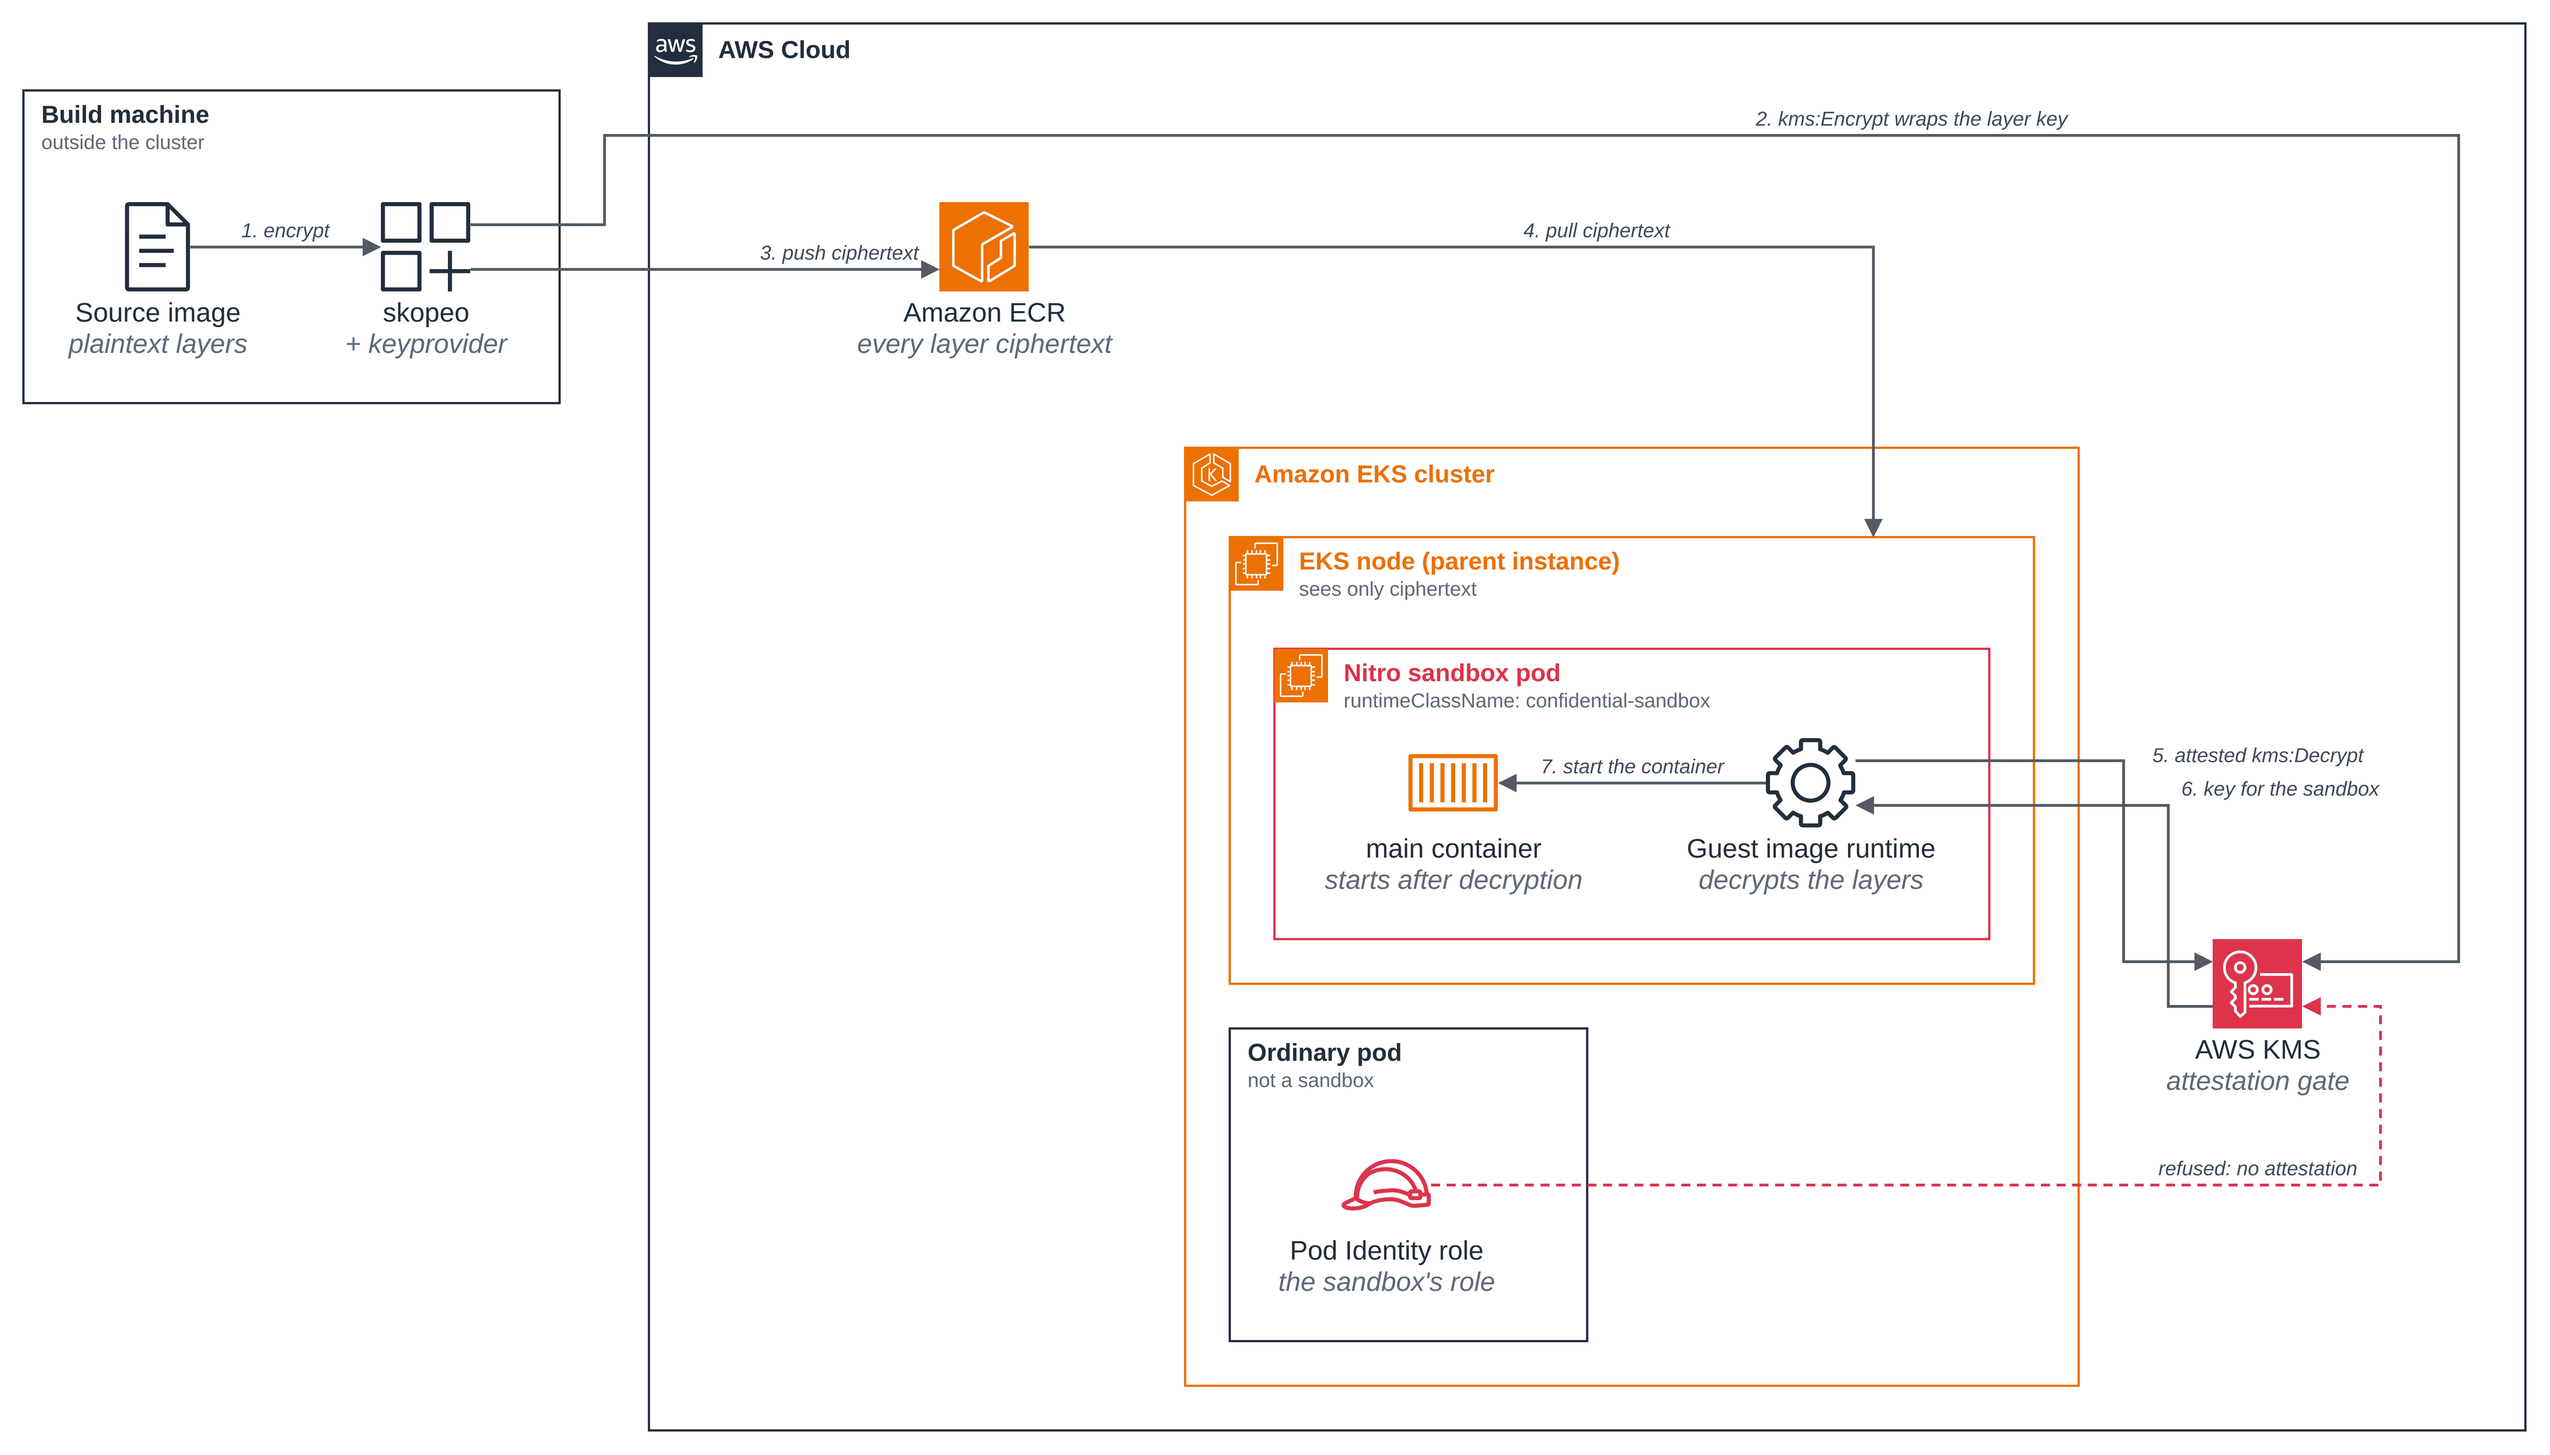
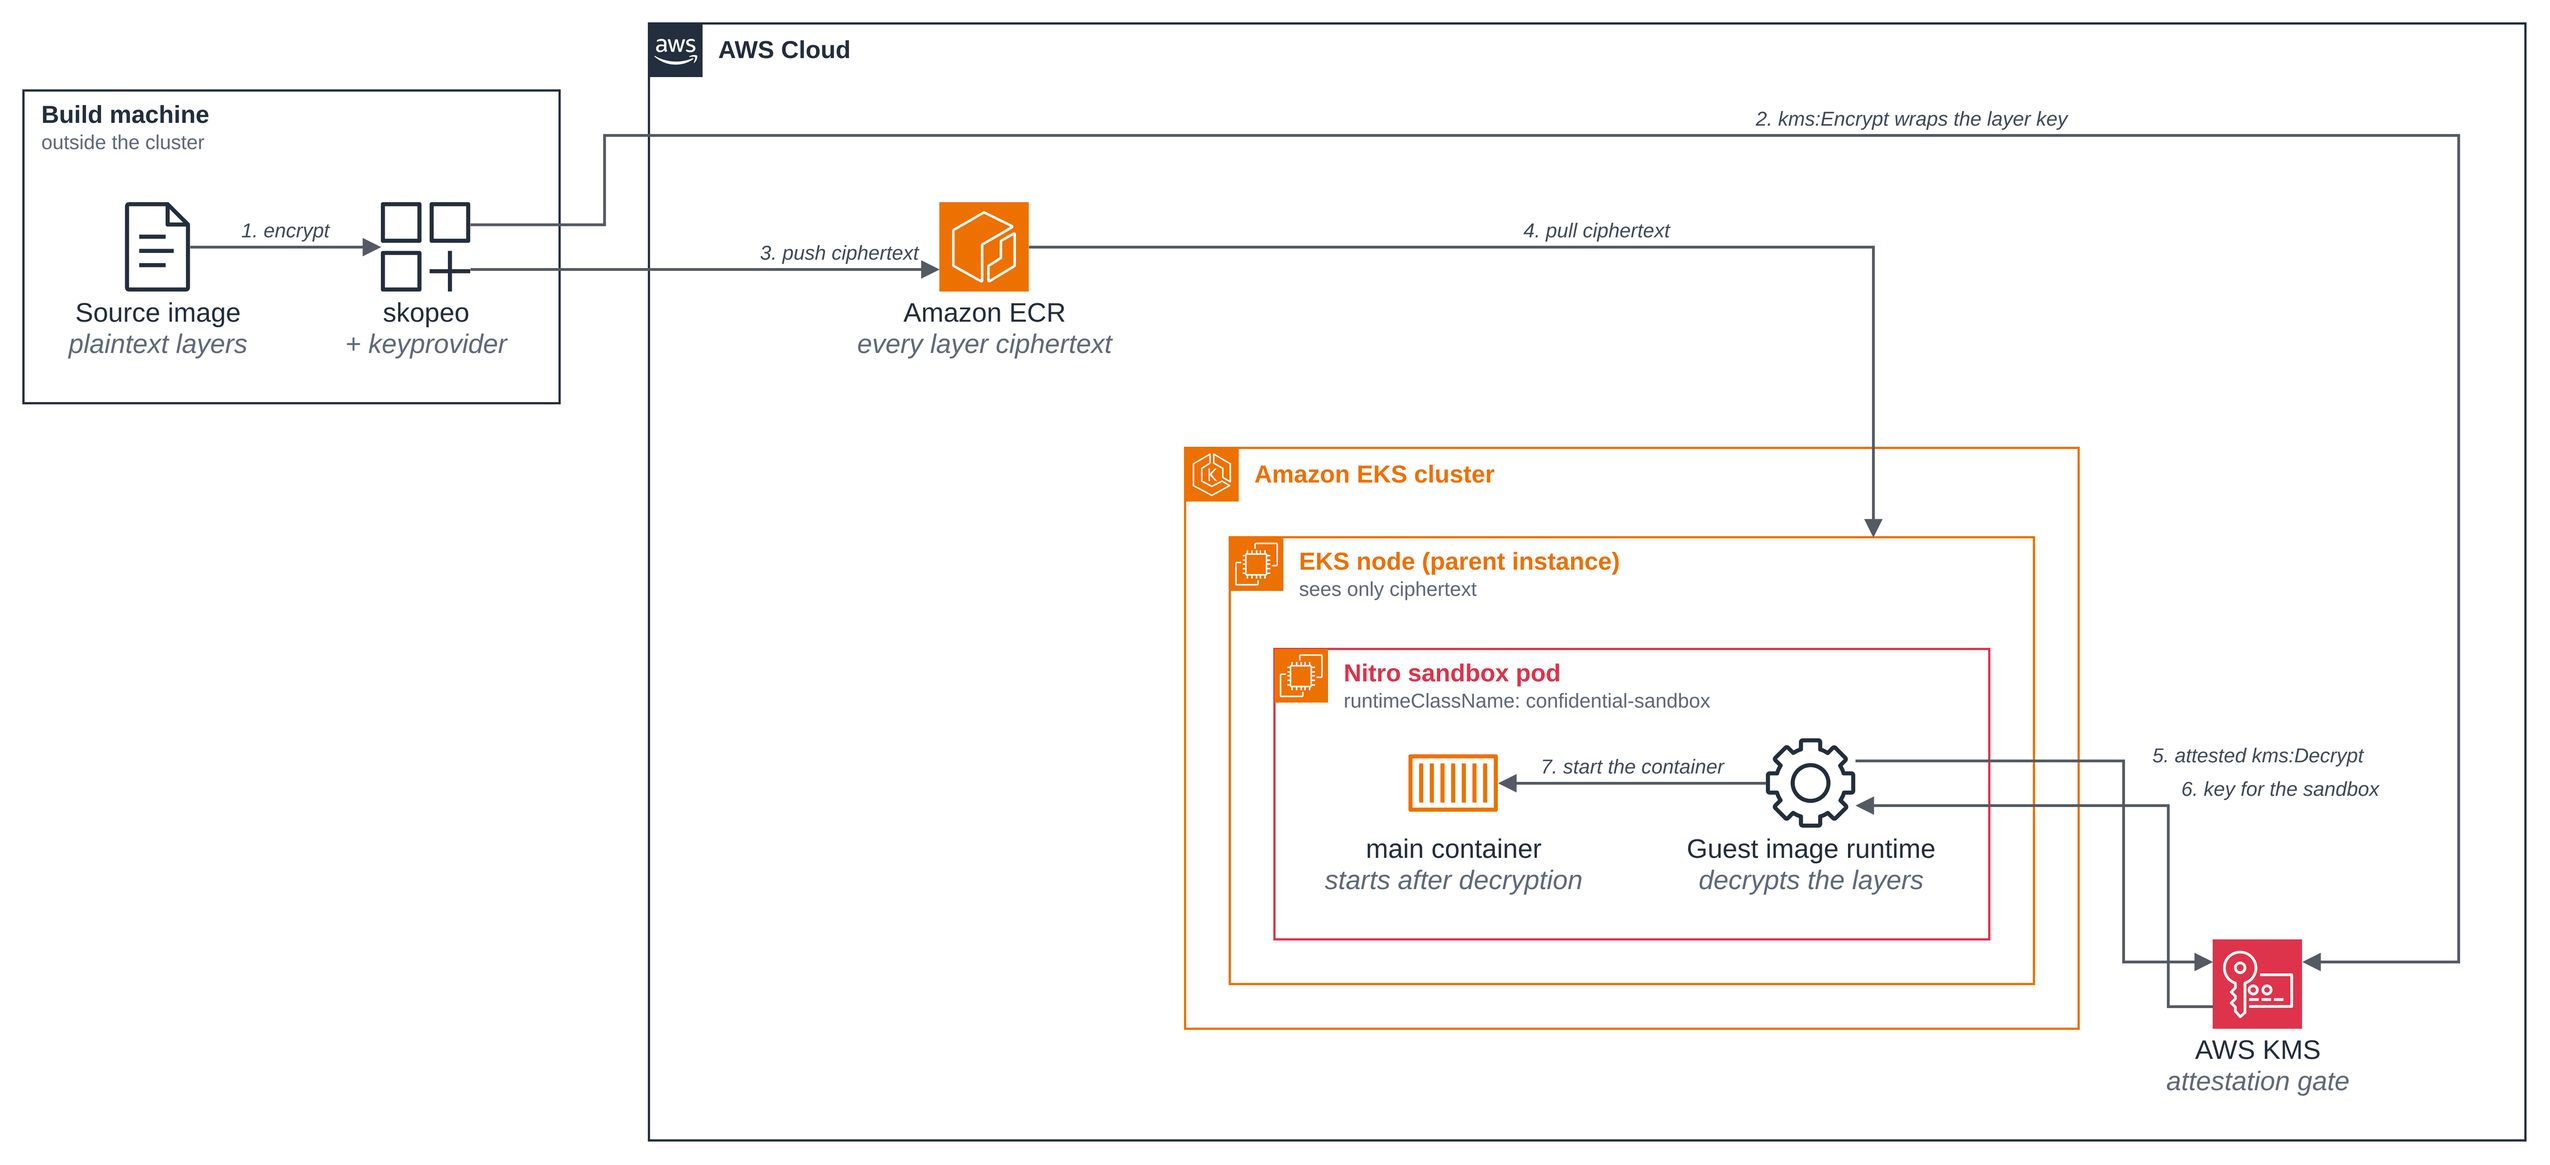
encrypted-image, secrets-manager-secret: split each overview figure, which was carrying two ideas
The Confidential section was uneven after #108 split s3-encrypted-file's
figure: that sample shipped two figures, these two shipped one each. The
fix was to judge these two against the aws-diagrams rule of one idea per
figure rather than to pad or to revert, and both failed it the same way
s3-encrypted-file had.

The evidence, per sample. encrypted-image: a 228-word single-block alt
text (s3-encrypted-file's was 221 before its split), 7 icons, 6 frames
and 8 labelled flows, with the refused control pod's dashed line leaving
the EKS cluster frame and crossing the canvas to a KMS icon that three
other flows already converged on, and the lower-left quarter of the AWS
Cloud frame empty. secrets-manager-secret: 285 words, 6 icons, 6 frames
and 8 flows, and the control pod's role icon carrying two long crossing
lines of its own, one up the whole left of the cluster to Secrets Manager
and one right across to KMS, with the same empty quarter.

The two ideas in each were the envelope, which is how the sample keeps
the plaintext away from the node, and the gate, which is who KMS will
release the key to. The gate is each sample's central security claim and
it is a comparison, so a corner of an overview was the wrong place for
it.

Figure 1 of each is now the journey alone: the ordinary pod, its role
icon and the refused edge are gone and both frames shrink to what is
left. encrypted-image is 6 icons and 7 flows, secrets-manager-secret 5
[…]

diff --git a/examples/confidential/secrets-manager-secret/README.md b/examples/confidential/secrets-manager-secret/README.md
@@ -73,11 +73,11 @@ attestation.
   the length and SHA-256 its pod spec pins and logs only those two numbers. The setup script
   reads all three pods' logs back and fails if the value is in any of them.
 
-*Figure 1: A secret stored as ciphertext in AWS Secrets Manager, and the attestation that
-releases it. The ordinary pod holds the same Pod Identity role and can read the ciphertext,
-but only the sandbox's attestation gets the value out of AWS KMS.*
+*Figure 1: The secret's journey, from the setup machine to the sandbox that reads it back.
+What AWS Secrets Manager holds is a ciphertext envelope, and the value is in plaintext only
+on the setup machine and inside the guest. Who AWS KMS will release it to is Figure 2.*
 
-![A setup machine outside the cluster, labelled trusted with the value, holds a 64-byte token in plaintext. Two flows leave it. Step 1, kms:Encrypt, runs along the top of the AWS Cloud frame to AWS KMS on the far right; step 2, store the ciphertext, runs to AWS Secrets Manager, which holds the ciphertext envelope, in the upper left of the AWS Cloud frame. Inside the AWS Cloud frame an Amazon EKS cluster frame contains an EKS node frame labelled parent instance, which never sees the value. Inside the node is a Nitro sandbox pod frame with runtimeClassName confidential-sandbox, holding a Python application that decrypts in the guest and, to its left, the decrypted plaintext, which stays in the guest. Step 3, read the ciphertext envelope, runs from AWS Secrets Manager across and down into the Python application. The Python application then exchanges two flows with AWS KMS, outside the cluster to the right, whose label reads that it checks the attested PCR17 against the approved policy: step 4, an attested kms:Decrypt, and step 5, the value returned for this guest only. Step 6, validate by length and SHA-256, runs from the Python application back to the plaintext box inside the sandbox. Lower in the same EKS cluster frame, outside the node frame, sits an ordinary pod with the same Pod Identity role and no sandbox, holding the sandbox's own Pod Identity role. Two flows leave that role. A solid line runs up the left of the cluster to AWS Secrets Manager, labelled reads the ciphertext: allowed. A red dashed line runs right to AWS KMS, labelled refused, no attestation, so the same credentials without an attestation document get the ciphertext but never the value.](images/figure-1-secrets-manager-secret.png)
+![A setup machine outside the cluster, labelled trusted with the value, holds a 64-byte token in plaintext. Two flows leave it. Step 1, kms:Encrypt, runs along the top of the AWS Cloud frame to AWS KMS on the far right; step 2, store the ciphertext, runs to AWS Secrets Manager, which holds the ciphertext envelope, in the upper left of the AWS Cloud frame. Inside the AWS Cloud frame an Amazon EKS cluster frame contains an EKS node frame labelled parent instance, which never sees the value. Inside the node is a Nitro sandbox pod frame with runtimeClassName confidential-sandbox, holding a Python application that decrypts in the guest and, to its left, the decrypted plaintext, which stays in the guest. Step 3, read the ciphertext envelope, runs from AWS Secrets Manager across and down into the Python application. The Python application then exchanges two flows with AWS KMS, outside the cluster to the right, whose label reads that it checks the attested PCR17 against the approved policy: step 4, an attested kms:Decrypt, and step 5, the value returned for this guest only. Step 6, validate by length and SHA-256, runs from the Python application back to the plaintext box inside the sandbox.](images/figure-1-secrets-manager-secret.png)
 
 ## Versions
 
@@ -717,6 +717,12 @@ delivered, or mint them itself from the kubelet's own credentials, and that IAM 
 such as `aws:SourceVpc` and session tags do not tell the sandbox apart from it. So the role is
 given nothing that is not conditional: the read it is allowed returns ciphertext, and the
 decrypt it is not allowed is refused by an explicit deny.
+
+*Figure 2: What AWS KMS will release the secret to. Both pods hold the same Pod Identity role
+and read the very same ciphertext envelope; only the one that can present an attestation the
+key policy accepts gets the value. The credential is not the boundary.*
+
+![A focused view of the attestation gate. On the left, inside an AWS Cloud frame, is AWS Secrets Manager, holding the ciphertext envelope. To its right an Amazon EKS cluster frame holds two pods, one above the other. The upper one is a Nitro sandbox pod frame, labelled confidential-sandbox, same Pod Identity role, holding a Python application that presents an attestation. The lower one is an Ordinary pod frame, labelled not a sandbox, same Pod Identity role, holding a main container that presents none. Two solid arrows leave AWS Secrets Manager: one up and to the right into the Python application, labelled reads the ciphertext, and one down and to the right into the main container, labelled the same read, allowed. On the far right, outside the cluster, is AWS KMS, labelled the attestation gate. Two solid arrows connect the Python application and AWS KMS: an attested kms:Decrypt going out, and the value released coming back. From the ordinary pod's container a single red dashed arrow runs to AWS KMS, labelled refused, no attestation. Below AWS KMS a red dotted note headed key policy reads: allow kms:Decrypt only on a matching attestation, and explicitly deny otherwise.](images/figure-2-attestation-gate.png)
 
 **Step 10: Change one pinned value and KMS refuses.** This script renders the same pod with
 `DEMO_VARIANT` set to `changed`, regenerates its policy, confirms the measurement really did

diff --git a/examples/confidential/encrypted-image/README.md b/examples/confidential/encrypted-image/README.md
@@ -75,12 +75,12 @@ attestation.
   no AWS or KMS code in it. The guest's image runtime decrypts and unpacks the layers before
   the container's first instruction runs.
 
-*Figure 1: An encrypted image from the build machine to a running container, and the
-attestation gate in the middle. Only ciphertext leaves the build machine, and what unlocks
-it inside the sandbox is the attestation, not the credentials: an ordinary pod holding the
-very same Pod Identity role is refused.*
+*Figure 1: The image's journey, from the build machine to the container that runs it. Only
+ciphertext leaves the build machine, and the layers are decrypted inside the sandbox by the
+guest's own image runtime, which is why the workload image needs no decryption code. Who KMS
+will release that layer key to is Figure 2.*
 
-![A build machine outside the cluster holds a source image with plaintext layers and runs skopeo with the keyprovider, which encrypts every layer. Three flows leave the build machine: step 1 encrypt, from the source image to skopeo; step 2, kms:Encrypt wraps the layer key, running along the top of the AWS Cloud to AWS KMS on the far right; and step 3, push ciphertext, to Amazon ECR, which holds every layer as ciphertext. Inside the AWS Cloud, an Amazon EKS cluster frame contains an EKS node frame labelled parent instance, which sees only ciphertext, and step 4, pull ciphertext, runs from Amazon ECR down into that node. Inside the node is a Nitro sandbox pod frame with runtimeClassName confidential-sandbox, holding a guest image runtime that decrypts the layers and a main container that starts after decryption. The guest image runtime exchanges two flows with AWS KMS, outside the cluster to the right: step 5, an attested kms:Decrypt, and step 6, the key returned for the sandbox. Step 7, start the container, runs from the guest image runtime to the main container. Lower in the same EKS cluster sits an ordinary pod, not a sandbox, holding the sandbox's own Pod Identity role. Its request to AWS KMS is drawn as a red dashed line labelled refused, no attestation, so the same credentials without an attestation document get nothing.](images/figure-1-encrypted-image.png)
+![A build machine outside the cluster holds a source image with plaintext layers and runs skopeo with the keyprovider, which encrypts every layer. Three flows leave the build machine: step 1 encrypt, from the source image to skopeo; step 2, kms:Encrypt wraps the layer key, running along the top of the AWS Cloud to AWS KMS on the far right; and step 3, push ciphertext, to Amazon ECR, which holds every layer as ciphertext. Inside the AWS Cloud, an Amazon EKS cluster frame contains an EKS node frame labelled parent instance, which sees only ciphertext, and step 4, pull ciphertext, runs from Amazon ECR down into that node. Inside the node is a Nitro sandbox pod frame with runtimeClassName confidential-sandbox, holding a guest image runtime that decrypts the layers and a main container that starts after decryption. The guest image runtime exchanges two flows with AWS KMS, outside the cluster to the right: step 5, an attested kms:Decrypt, and step 6, the key returned for the sandbox. Step 7, start the container, runs from the guest image runtime to the main container.](images/figure-1-encrypted-image.png)
 
 ## Versions
 
@@ -649,6 +649,12 @@ and can obtain these same credentials: the Amazon EKS User Guide, *Security mode
 parent instance trust assumptions*, says to treat Pod Identity credentials as visible to
 the parent instance and to assume anything the role permits is reachable from it. Here the
 role permits nothing without an attestation KMS accepts.
+
+*Figure 2: What AWS KMS will release the layer key to. Both pods hold the same Pod Identity
+role and ask for the same thing; only the one that can present an attestation the key policy
+accepts gets an answer. The credential is not the boundary.*
+
+![A focused view of the attestation gate. Inside an AWS Cloud frame, an Amazon EKS cluster frame holds two pods, one above the other. The upper one is a Nitro sandbox pod frame, labelled confidential-sandbox, same Pod Identity role, holding a guest image runtime that presents an attestation. The lower one is an Ordinary pod frame, labelled not a sandbox, same Pod Identity role, holding a main container that presents none. To the right, outside the cluster, is AWS KMS, labelled the attestation gate. Two solid arrows connect the guest image runtime and AWS KMS: an attested kms:Decrypt going out, and the layer key released coming back. From the ordinary pod's container a single red dashed arrow runs to AWS KMS, labelled refused, no attestation. Below AWS KMS a red dotted note headed key policy reads: allow kms:Decrypt only on a matching attestation, and explicitly deny otherwise.](images/figure-2-attestation-gate.png)
 
 **Step 11: Change one pinned value and KMS refuses.** This script renders the same pod with
 one extra environment variable, regenerates its policy, confirms the measurement really did
